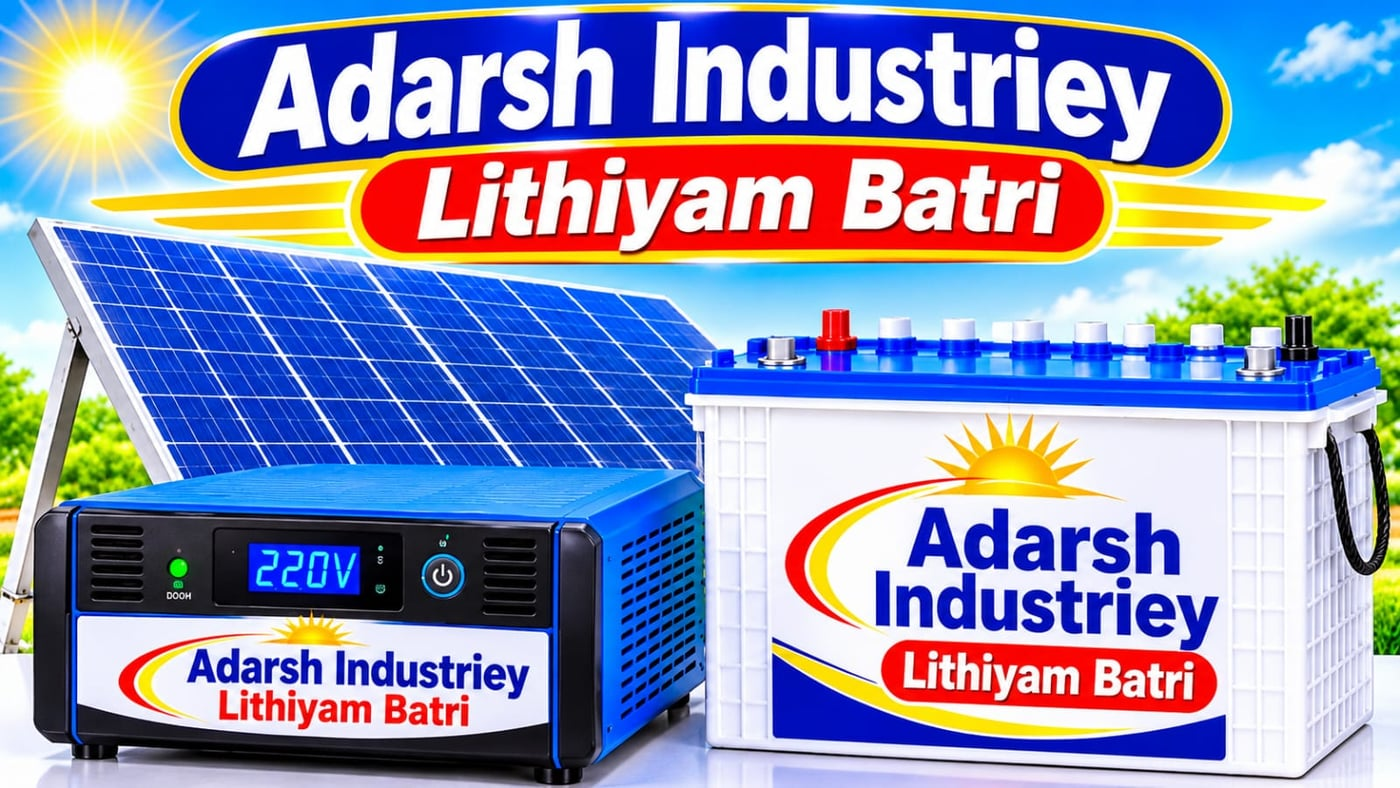
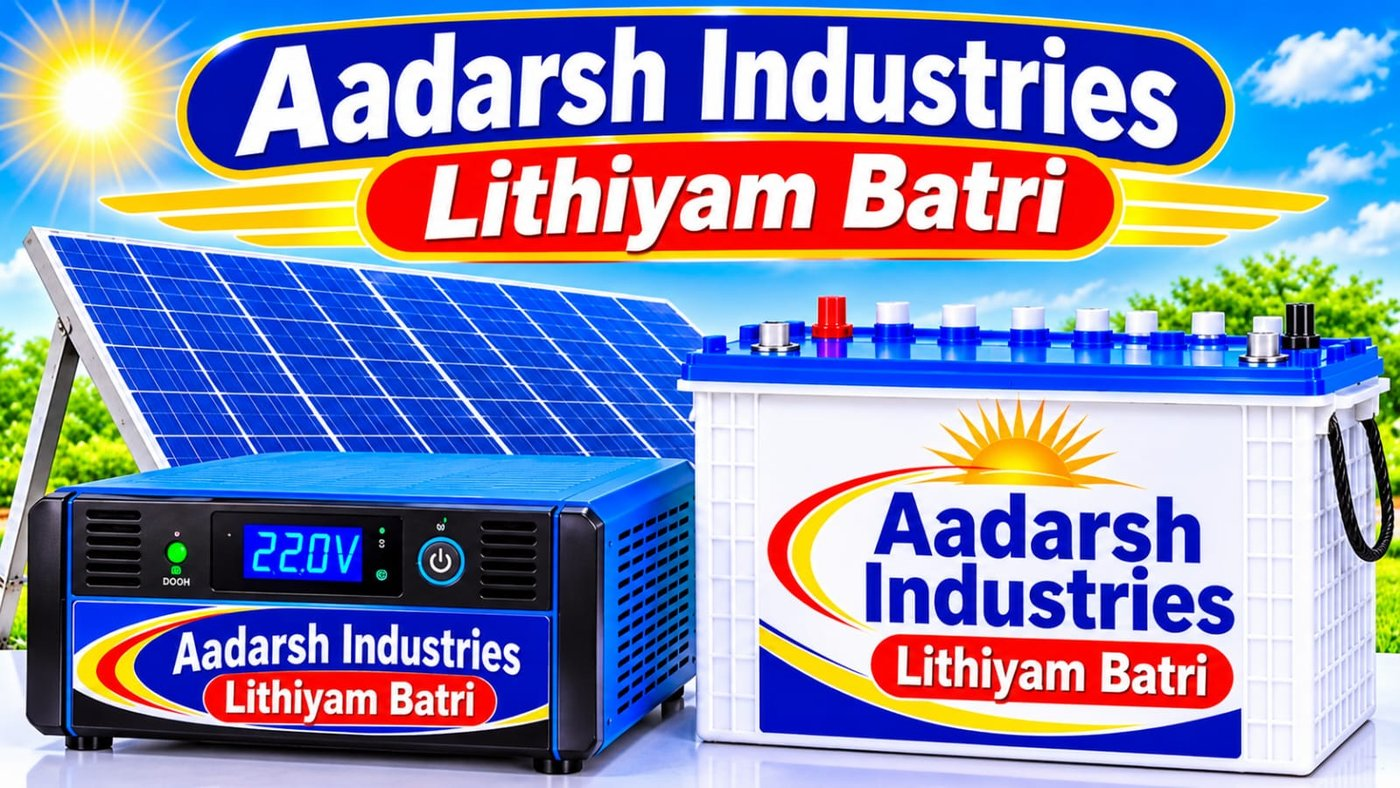
Replace misspelled product and enclosure images with updated Aadarsh Industries assets

diff --git a/Aadarsh_Industries_Website.html b/Aadarsh_Industries_Website.html
@@ -167,8 +167,8 @@
       </div>
       <div class="p-5"><p class="text-xs font-bold uppercase tracking-wider text-emerald-700">Chargers</p><h3 class="mt-2 text-lg font-bold text-slate-900">Smart Aluminum EV Fast Chargers</h3><p class="mt-1 font-semibold text-slate-700">60V / 72V High-Current Smart Charger</p><p class="mt-3 min-h-[60px] text-sm leading-6 text-slate-600">Heavy-duty aluminum heat-sink body chargers for fast heat dissipation, dual cooling protection, and extended battery health.</p><a href="https://wa.me/917523916333?text=Hi%20Aadarsh%20Industries%2C%20I%20need%20Smart%20Aluminum%20Body%20Fast%20Chargers.%20Please%20share%20voltage%20options%20and%20price." target="_blank" rel="noopener" class="mt-5 inline-flex w-full items-center justify-center gap-2 rounded-xl bg-emerald-600 px-4 py-3 font-semibold text-white hover:bg-emerald-700 transition"><svg class="w-5 h-5 fill-current shrink-0" viewBox="0 0 24 24"><path d="M12.04 2c-5.46 0-9.91 4.45-9.91 9.91 0 1.75.46 3.45 1.32 4.95L2.05 22l5.25-1.38c1.45.79 3.08 1.21 4.74 1.21 5.46 0 9.91-4.45 9.91-9.91 0-2.65-1.03-5.14-2.9-7.01A9.816 9.816 0 0 0 12.04 2m.01 1.67c2.2 0 4.26.86 5.82 2.42a8.225 8.225 0 0 1 2.41 5.83c0 4.54-3.7 8.24-8.24 8.24-1.48 0-2.93-.4-4.2-1.15l-.3-.18-3.12.82.83-3.04-.2-.31a8.186 8.186 0 0 1-1.26-4.38c0-4.54 3.7-8.24 8.24-8.24m4.52 11.53c-.25.7-.72 1.3-1.36 1.45-.48.11-.98.14-1.52-.07-.93-.36-1.84-.93-2.64-1.73-.8-.8-1.37-1.71-1.73-2.64-.21-.54-.18-1.04-.07-1.52.15-.64.75-1.11 1.45-1.36.19-.07.39-.02.51.13l.89 1.14c.11.14.12.33.02.48l-.48.71c-.08.12-.07.28.03.38.45.45.98.81 1.55 1.06.12.05.25.04.34-.03l.63-.58c.13-.12.33-.13.48-.04l1.31.75c.16.09.23.28.17.47"/></svg> Inquire on WhatsApp</a></div>
     </article>    <article class="product-card group bg-white rounded-2xl border border-slate-200 overflow-hidden hover:shadow-xl hover:-translate-y-1 transition-all duration-300" data-category="Enclosures">
-      <div class="relative h-64 overflow-hidden bg-slate-50 flex items-center justify-center p-3 border-b border-slate-100 cursor-pointer group/img" onclick="openLightbox('img/battery-enclosures.webp', 'Custom Metal Battery Enclosures Aadesh Industry')">
-        <img src="img/battery-enclosures.webp" alt="Custom Metal Battery Enclosures Aadesh Industry" class="max-h-full max-w-full object-contain group-hover:scale-105 transition-transform duration-300 drop-shadow-sm" loading="lazy">
+      <div class="relative h-64 overflow-hidden bg-slate-50 flex items-center justify-center p-3 border-b border-slate-100 cursor-pointer group/img" onclick="openLightbox('img/battery-enclosures.webp', 'Custom Metal Battery Enclosures Aadarsh Industries')">
+        <img src="img/battery-enclosures.webp" alt="Custom Metal Battery Enclosures Aadarsh Industries" class="max-h-full max-w-full object-contain group-hover:scale-105 transition-transform duration-300 drop-shadow-sm" loading="lazy">
         <span class="absolute top-3 right-3 rounded-full bg-white/95 backdrop-blur px-2.5 py-1 text-xs font-bold text-emerald-800 shadow-sm border border-slate-200">Custom Build</span>
         <span class="absolute bottom-2 right-2 rounded-md bg-slate-900/75 text-white px-2.5 py-1 text-xs opacity-0 group-hover:opacity-100 transition-opacity flex items-center gap-1 font-medium pointer-events-none shadow">🔍 Click to zoom</span>
       </div>
@@ -191,7 +191,7 @@
   </div><p id="no-results" class="hidden py-16 text-center text-slate-500">No matching products. Try another search or category.</p><div class="mt-10 rounded-2xl bg-emerald-950 p-6 text-white sm:flex sm:items-center sm:justify-between sm:p-8"><div><h3 class="text-xl font-bold">Need a custom battery pack?</h3><p class="mt-2 max-w-2xl text-sm text-emerald-100/80">Share your application, voltage, capacity and quantity. We’ll discuss the right configuration and current availability.</p></div><a href="https://wa.me/917523916333?text=Hi%20Aadarsh%20Industries%2C%20I%20need%20a%20custom%20battery%20pack.%20Application%3A%20___%20Voltage%3A%20___%20Capacity%3A%20___%20Quantity%3A%20___" class="mt-5 inline-flex shrink-0 rounded-xl bg-white px-5 py-3 font-bold text-emerald-950 hover:bg-emerald-50 sm:mt-0">Discuss on WhatsApp →</a></div></div></section>
 <section id="quality" class="py-16 sm:py-20"><div class="mx-auto grid max-w-7xl items-center gap-10 px-4 sm:px-6 md:grid-cols-2"><div class="overflow-hidden rounded-3xl bg-slate-100 shadow-lg"><img src="img/quality-testing-lab.webp" alt="Quality Testing & Cell Grading Facility" class="h-[320px] w-full object-cover sm:h-[430px]" loading="lazy"></div><div><p class="text-sm font-extrabold uppercase tracking-[.18em] text-emerald-700">Quality & testing</p><h2 class="mt-3 text-3xl font-extrabold tracking-tight sm:text-4xl">Tested cells. Better-built packs.</h2><p class="mt-5 leading-7 text-slate-600">Our workshop photos show multi-channel cell testing and grading equipment. We can discuss the test data and matching requirements for your project before you place an order.</p><div class="mt-7 space-y-4"><div class="flex gap-3"><span class="grid h-7 w-7 shrink-0 place-items-center rounded-full bg-emerald-100 text-sm font-bold text-emerald-700">✓</span><div><p class="font-bold">Capacity grading</p><p class="mt-1 text-sm text-slate-500">Cells can be checked and grouped for pack assembly.</p></div></div><div class="flex gap-3"><span class="grid h-7 w-7 shrink-0 place-items-center rounded-full bg-emerald-100 text-sm font-bold text-emerald-700">✓</span><div><p class="font-bold">Multiple chemistries</p><p class="mt-1 text-sm text-slate-500">LiFePO₄ and lithium-ion choices for different use cases.</p></div></div><div class="flex gap-3"><span class="grid h-7 w-7 shrink-0 place-items-center rounded-full bg-emerald-100 text-sm font-bold text-emerald-700">✓</span><div><p class="font-bold">BIS marking shown on selected cells</p><p class="mt-1 text-sm text-slate-500">Ask us for applicable certification and product documentation for the specific item.</p></div></div></div><a href="https://wa.me/917523916333?text=Hi%20Aadarsh%20Industries%2C%20please%20share%20cell%20testing%20and%20product%20documentation%20details." class="mt-8 inline-flex rounded-xl bg-slate-950 px-5 py-3 font-bold text-white hover:bg-slate-800">Ask about quality checks</a></div></div></section>
 <section class="bg-emerald-950 py-14 text-white"><div class="mx-auto max-w-7xl px-4 sm:px-6"><div class="grid gap-8 md:grid-cols-[1fr_1.1fr] md:items-center"><div><p class="text-sm font-bold uppercase tracking-[.18em] text-emerald-300">Applications</p><h2 class="mt-3 text-3xl font-extrabold">Energy for work that moves India</h2><p class="mt-4 max-w-xl leading-7 text-emerald-100/75">Talk to us about battery requirements for mobility, backup and industrial use.</p></div><div class="grid grid-cols-2 gap-3 sm:grid-cols-3"><div class="rounded-xl border border-white/10 bg-white/5 p-4"><span class="text-2xl">🛵</span><p class="mt-3 text-sm font-semibold">EV Scooty & E-Bike</p></div><div class="rounded-xl border border-white/10 bg-white/5 p-4"><span class="text-2xl">🛺</span><p class="mt-3 text-sm font-semibold">E-Rickshaw</p></div><div class="rounded-xl border border-white/10 bg-white/5 p-4"><span class="text-2xl">☀</span><p class="mt-3 text-sm font-semibold">Solar & Storage</p></div><div class="rounded-xl border border-white/10 bg-white/5 p-4"><span class="text-2xl">🏭</span><p class="mt-3 text-sm font-semibold">Industrial Machinery</p></div><div class="rounded-xl border border-white/10 bg-white/5 p-4"><span class="text-2xl">📦</span><p class="mt-3 text-sm font-semibold">Warehouse & Logistics</p></div><div class="rounded-xl border border-white/10 bg-white/5 p-4"><span class="text-2xl">🏥</span><p class="mt-3 text-sm font-semibold">Medical Equipment</p></div></div></div></div></section>
-<section id="about" class="py-16 sm:py-20"><div class="mx-auto grid max-w-7xl gap-10 px-4 sm:px-6 md:grid-cols-2"><div><p class="text-sm font-extrabold uppercase tracking-[.18em] text-emerald-700">About Aadarsh</p><h2 class="mt-3 text-3xl font-extrabold tracking-tight sm:text-4xl">Your North India battery partner</h2><p class="mt-5 leading-7 text-slate-600">Aadarsh Industries supplies lithium battery products and components to customers across Delhi, Uttar Pradesh and Bihar. From individual cells to custom battery packs, chargers and enclosures, our team can help you find an option for your application.</p><p class="mt-4 leading-7 text-slate-600">Send us your requirements on WhatsApp for product availability, pricing and delivery details.</p><div class="mt-7 rounded-2xl border border-slate-200 bg-slate-50 p-5"><p class="text-xs font-bold uppercase tracking-wider text-slate-500">GST registered trade name</p><p class="mt-2 text-lg font-extrabold">Aadarsh Industries</p><p class="mt-1 text-sm text-slate-600">GSTIN: 09DHKPK9294J2ZE</p></div></div><div class="grid gap-4 sm:grid-cols-2"><div class="overflow-hidden rounded-2xl"><img src="img/lifepo4-battery-cells.webp" alt="Aadarsh Industries Battery Cells Stock" class="h-full min-h-56 w-full object-cover" loading="lazy"></div><div class="overflow-hidden rounded-2xl"><img src="img/smart-charger-67v-10a.webp" alt="Aadarsh Industries Smart Chargers" class="h-full min-h-56 w-full object-cover" loading="lazy"></div><div class="overflow-hidden rounded-2xl sm:col-span-2"><img src="img/battery-enclosures.webp" alt="Aadarsh Industries Metal Battery Enclosures Manufacturing" class="h-56 w-full object-cover" loading="lazy"></div></div></div></section>
+<section id="about" class="py-16 sm:py-20"><div class="mx-auto grid max-w-7xl gap-10 px-4 sm:px-6 md:grid-cols-2"><div><p class="text-sm font-extrabold uppercase tracking-[.18em] text-emerald-700">About Aadarsh</p><h2 class="mt-3 text-3xl font-extrabold tracking-tight sm:text-4xl">Your North India battery partner</h2><p class="mt-5 leading-7 text-slate-600">Aadarsh Industries supplies lithium battery products and components to customers across Delhi, Uttar Pradesh and Bihar. From individual cells to custom battery packs, chargers and enclosures, our team can help you find an option for your application.</p><p class="mt-4 leading-7 text-slate-600">Send us your requirements on WhatsApp for product availability, pricing and delivery details.</p><div class="mt-7 rounded-2xl border border-slate-200 bg-slate-50 p-5"><p class="text-xs font-bold uppercase tracking-wider text-slate-500">GST registered trade name</p><p class="mt-2 text-lg font-extrabold">Aadarsh Industries</p><p class="mt-1 text-sm text-slate-600">GSTIN: 09DHKPK9294J2ZE</p></div></div><div class="grid gap-4 sm:grid-cols-2"><div class="overflow-hidden rounded-2xl"><img src="img/lifepo4-battery-cells.webp" alt="Aadarsh Industries Battery Cells Stock" class="h-full min-h-56 w-full object-cover" loading="lazy"></div><div class="overflow-hidden rounded-2xl"><img src="img/smart-aluminum-charger.webp" alt="Aadarsh Industries Smart Chargers" class="h-full min-h-56 w-full object-cover" loading="lazy"></div><div class="overflow-hidden rounded-2xl sm:col-span-2"><img src="img/battery-enclosures.webp" alt="Aadarsh Industries Metal Battery Enclosures Manufacturing" class="h-56 w-full object-cover" loading="lazy"></div></div></div></section>
 <section id="contact" class="bg-slate-50 py-16 sm:py-20"><div class="mx-auto max-w-7xl px-4 sm:px-6"><div class="text-center"><p class="text-sm font-extrabold uppercase tracking-[.18em] text-emerald-700">Contact & enquiries</p><h2 class="mt-3 text-3xl font-extrabold tracking-tight sm:text-4xl">Let’s talk batteries</h2><p class="mx-auto mt-3 max-w-2xl text-slate-600">Tell us what you’re building. For faster help, include your application, voltage and required quantity.</p></div><div class="mt-10 grid gap-5 md:grid-cols-3"><div class="rounded-2xl border border-slate-200 bg-white p-6"><span class="text-2xl">📍</span><h3 class="mt-4 font-bold">Main hub</h3><p class="mt-2 text-sm leading-6 text-slate-600">Kasimabad Road, Todarpur, Mohammadabad, Ghazipur, Uttar Pradesh 233229</p></div><div class="rounded-2xl border border-slate-200 bg-white p-6"><span class="text-2xl">📦</span><h3 class="mt-4 font-bold">Regional supply</h3><p class="mt-2 text-sm leading-6 text-slate-600">Hubs at Rasra (Ballia) and Barachwar (Ghazipur). Supply across Delhi, Uttar Pradesh, Bihar and North India.</p></div><div class="rounded-2xl border border-slate-200 bg-white p-6"><span class="text-2xl">☎</span><h3 class="mt-4 font-bold">Call or WhatsApp</h3><div class="mt-2 space-y-2 text-sm"><a href="tel:+917523916333" class="block font-semibold text-emerald-700">+91 75239 16333</a><a href="tel:+917523915333" class="block font-semibold text-emerald-700">+91 75239 15333</a></div></div></div><div class="mt-8 rounded-3xl bg-white p-6 shadow-sm ring-1 ring-slate-200 sm:p-8"><div class="grid gap-6 md:grid-cols-[1fr_auto] md:items-center"><div><h3 class="text-xl font-extrabold">Get a quick product quote</h3><p class="mt-2 text-sm leading-6 text-slate-600">Fill in a few details and WhatsApp will open with your enquiry ready to send.</p></div><form id="inquiry-form" class="grid gap-3 sm:grid-cols-2 md:min-w-[520px]"><input required id="inq-name" placeholder="Your name" class="rounded-xl border border-slate-200 px-4 py-3 text-sm outline-none focus:border-emerald-500"><input required id="inq-product" placeholder="Product / battery type" class="rounded-xl border border-slate-200 px-4 py-3 text-sm outline-none focus:border-emerald-500"><input id="inq-requirement" placeholder="Voltage, capacity or quantity (optional)" class="rounded-xl border border-slate-200 px-4 py-3 text-sm outline-none focus:border-emerald-500 sm:col-span-2"><button class="rounded-xl bg-emerald-600 px-5 py-3 font-bold text-white hover:bg-emerald-700 sm:col-span-2">Continue on WhatsApp ↗</button></form></div></div></div></section>
 </main><footer class="bg-slate-950 text-slate-300"><div class="mx-auto flex max-w-7xl flex-col gap-5 px-4 py-8 sm:px-6 md:flex-row md:items-center md:justify-between"><div><p class="font-extrabold text-white">Aadarsh Industries</p><p class="mt-1 text-xs text-slate-400">Powering a Smarter Tomorrow · Green Energy Clean India</p></div><p class="text-xs">Aadarsh Industries · GSTIN 09DHKPK9294J2ZE</p><p class="text-xs">© <span id="year"></span> Aadarsh Industries</p></div></footer>
 <a aria-label="Chat with Aadarsh Industries on WhatsApp" href="https://wa.me/917523916333?text=Hi%20Aadarsh%20Industries%2C%20I%20have%20a%20product%20enquiry." target="_blank" rel="noopener" class="fixed bottom-5 right-5 z-50 grid h-14 w-14 place-items-center rounded-full bg-emerald-500 text-2xl text-white shadow-xl ring-4 ring-white hover:scale-105" title="WhatsApp"><svg class="w-8 h-8 fill-current" viewBox="0 0 24 24"><path d="M12.04 2c-5.46 0-9.91 4.45-9.91 9.91 0 1.75.46 3.45 1.32 4.95L2.05 22l5.25-1.38c1.45.79 3.08 1.21 4.74 1.21 5.46 0 9.91-4.45 9.91-9.91 0-2.65-1.03-5.14-2.9-7.01A9.816 9.816 0 0 0 12.04 2m.01 1.67c2.2 0 4.26.86 5.82 2.42a8.225 8.225 0 0 1 2.41 5.83c0 4.54-3.7 8.24-8.24 8.24-1.48 0-2.93-.4-4.2-1.15l-.3-.18-3.12.82.83-3.04-.2-.31a8.186 8.186 0 0 1-1.26-4.38c0-4.54 3.7-8.24 8.24-8.24m4.52 11.53c-.25.7-.72 1.3-1.36 1.45-.48.11-.98.14-1.52-.07-.93-.36-1.84-.93-2.64-1.73-.8-.8-1.37-1.71-1.73-2.64-.21-.54-.18-1.04-.07-1.52.15-.64.75-1.11 1.45-1.36.19-.07.39-.02.51.13l.89 1.14c.11.14.12.33.02.48l-.48.71c-.08.12-.07.28.03.38.45.45.98.81 1.55 1.06.12.05.25.04.34-.03l.63-.58c.13-.12.33-.13.48-.04l1.31.75c.16.09.23.28.17.47"/></svg></a>

diff --git a/index.html b/index.html
@@ -167,8 +167,8 @@
       </div>
       <div class="p-5"><p class="text-xs font-bold uppercase tracking-wider text-emerald-700">Chargers</p><h3 class="mt-2 text-lg font-bold text-slate-900">Smart Aluminum EV Fast Chargers</h3><p class="mt-1 font-semibold text-slate-700">60V / 72V High-Current Smart Charger</p><p class="mt-3 min-h-[60px] text-sm leading-6 text-slate-600">Heavy-duty aluminum heat-sink body chargers for fast heat dissipation, dual cooling protection, and extended battery health.</p><a href="https://wa.me/917523916333?text=Hi%20Aadarsh%20Industries%2C%20I%20need%20Smart%20Aluminum%20Body%20Fast%20Chargers.%20Please%20share%20voltage%20options%20and%20price." target="_blank" rel="noopener" class="mt-5 inline-flex w-full items-center justify-center gap-2 rounded-xl bg-emerald-600 px-4 py-3 font-semibold text-white hover:bg-emerald-700 transition"><svg class="w-5 h-5 fill-current shrink-0" viewBox="0 0 24 24"><path d="M12.04 2c-5.46 0-9.91 4.45-9.91 9.91 0 1.75.46 3.45 1.32 4.95L2.05 22l5.25-1.38c1.45.79 3.08 1.21 4.74 1.21 5.46 0 9.91-4.45 9.91-9.91 0-2.65-1.03-5.14-2.9-7.01A9.816 9.816 0 0 0 12.04 2m.01 1.67c2.2 0 4.26.86 5.82 2.42a8.225 8.225 0 0 1 2.41 5.83c0 4.54-3.7 8.24-8.24 8.24-1.48 0-2.93-.4-4.2-1.15l-.3-.18-3.12.82.83-3.04-.2-.31a8.186 8.186 0 0 1-1.26-4.38c0-4.54 3.7-8.24 8.24-8.24m4.52 11.53c-.25.7-.72 1.3-1.36 1.45-.48.11-.98.14-1.52-.07-.93-.36-1.84-.93-2.64-1.73-.8-.8-1.37-1.71-1.73-2.64-.21-.54-.18-1.04-.07-1.52.15-.64.75-1.11 1.45-1.36.19-.07.39-.02.51.13l.89 1.14c.11.14.12.33.02.48l-.48.71c-.08.12-.07.28.03.38.45.45.98.81 1.55 1.06.12.05.25.04.34-.03l.63-.58c.13-.12.33-.13.48-.04l1.31.75c.16.09.23.28.17.47"/></svg> Inquire on WhatsApp</a></div>
     </article>    <article class="product-card group bg-white rounded-2xl border border-slate-200 overflow-hidden hover:shadow-xl hover:-translate-y-1 transition-all duration-300" data-category="Enclosures">
-      <div class="relative h-64 overflow-hidden bg-slate-50 flex items-center justify-center p-3 border-b border-slate-100 cursor-pointer group/img" onclick="openLightbox('img/battery-enclosures.webp', 'Custom Metal Battery Enclosures Aadesh Industry')">
-        <img src="img/battery-enclosures.webp" alt="Custom Metal Battery Enclosures Aadesh Industry" class="max-h-full max-w-full object-contain group-hover:scale-105 transition-transform duration-300 drop-shadow-sm" loading="lazy">
+      <div class="relative h-64 overflow-hidden bg-slate-50 flex items-center justify-center p-3 border-b border-slate-100 cursor-pointer group/img" onclick="openLightbox('img/battery-enclosures.webp', 'Custom Metal Battery Enclosures Aadarsh Industries')">
+        <img src="img/battery-enclosures.webp" alt="Custom Metal Battery Enclosures Aadarsh Industries" class="max-h-full max-w-full object-contain group-hover:scale-105 transition-transform duration-300 drop-shadow-sm" loading="lazy">
         <span class="absolute top-3 right-3 rounded-full bg-white/95 backdrop-blur px-2.5 py-1 text-xs font-bold text-emerald-800 shadow-sm border border-slate-200">Custom Build</span>
         <span class="absolute bottom-2 right-2 rounded-md bg-slate-900/75 text-white px-2.5 py-1 text-xs opacity-0 group-hover:opacity-100 transition-opacity flex items-center gap-1 font-medium pointer-events-none shadow">🔍 Click to zoom</span>
       </div>
@@ -191,7 +191,7 @@
   </div><p id="no-results" class="hidden py-16 text-center text-slate-500">No matching products. Try another search or category.</p><div class="mt-10 rounded-2xl bg-emerald-950 p-6 text-white sm:flex sm:items-center sm:justify-between sm:p-8"><div><h3 class="text-xl font-bold">Need a custom battery pack?</h3><p class="mt-2 max-w-2xl text-sm text-emerald-100/80">Share your application, voltage, capacity and quantity. We’ll discuss the right configuration and current availability.</p></div><a href="https://wa.me/917523916333?text=Hi%20Aadarsh%20Industries%2C%20I%20need%20a%20custom%20battery%20pack.%20Application%3A%20___%20Voltage%3A%20___%20Capacity%3A%20___%20Quantity%3A%20___" class="mt-5 inline-flex shrink-0 rounded-xl bg-white px-5 py-3 font-bold text-emerald-950 hover:bg-emerald-50 sm:mt-0">Discuss on WhatsApp →</a></div></div></section>
 <section id="quality" class="py-16 sm:py-20"><div class="mx-auto grid max-w-7xl items-center gap-10 px-4 sm:px-6 md:grid-cols-2"><div class="overflow-hidden rounded-3xl bg-slate-100 shadow-lg"><img src="img/quality-testing-lab.webp" alt="Quality Testing & Cell Grading Facility" class="h-[320px] w-full object-cover sm:h-[430px]" loading="lazy"></div><div><p class="text-sm font-extrabold uppercase tracking-[.18em] text-emerald-700">Quality & testing</p><h2 class="mt-3 text-3xl font-extrabold tracking-tight sm:text-4xl">Tested cells. Better-built packs.</h2><p class="mt-5 leading-7 text-slate-600">Our workshop photos show multi-channel cell testing and grading equipment. We can discuss the test data and matching requirements for your project before you place an order.</p><div class="mt-7 space-y-4"><div class="flex gap-3"><span class="grid h-7 w-7 shrink-0 place-items-center rounded-full bg-emerald-100 text-sm font-bold text-emerald-700">✓</span><div><p class="font-bold">Capacity grading</p><p class="mt-1 text-sm text-slate-500">Cells can be checked and grouped for pack assembly.</p></div></div><div class="flex gap-3"><span class="grid h-7 w-7 shrink-0 place-items-center rounded-full bg-emerald-100 text-sm font-bold text-emerald-700">✓</span><div><p class="font-bold">Multiple chemistries</p><p class="mt-1 text-sm text-slate-500">LiFePO₄ and lithium-ion choices for different use cases.</p></div></div><div class="flex gap-3"><span class="grid h-7 w-7 shrink-0 place-items-center rounded-full bg-emerald-100 text-sm font-bold text-emerald-700">✓</span><div><p class="font-bold">BIS marking shown on selected cells</p><p class="mt-1 text-sm text-slate-500">Ask us for applicable certification and product documentation for the specific item.</p></div></div></div><a href="https://wa.me/917523916333?text=Hi%20Aadarsh%20Industries%2C%20please%20share%20cell%20testing%20and%20product%20documentation%20details." class="mt-8 inline-flex rounded-xl bg-slate-950 px-5 py-3 font-bold text-white hover:bg-slate-800">Ask about quality checks</a></div></div></section>
 <section class="bg-emerald-950 py-14 text-white"><div class="mx-auto max-w-7xl px-4 sm:px-6"><div class="grid gap-8 md:grid-cols-[1fr_1.1fr] md:items-center"><div><p class="text-sm font-bold uppercase tracking-[.18em] text-emerald-300">Applications</p><h2 class="mt-3 text-3xl font-extrabold">Energy for work that moves India</h2><p class="mt-4 max-w-xl leading-7 text-emerald-100/75">Talk to us about battery requirements for mobility, backup and industrial use.</p></div><div class="grid grid-cols-2 gap-3 sm:grid-cols-3"><div class="rounded-xl border border-white/10 bg-white/5 p-4"><span class="text-2xl">🛵</span><p class="mt-3 text-sm font-semibold">EV Scooty & E-Bike</p></div><div class="rounded-xl border border-white/10 bg-white/5 p-4"><span class="text-2xl">🛺</span><p class="mt-3 text-sm font-semibold">E-Rickshaw</p></div><div class="rounded-xl border border-white/10 bg-white/5 p-4"><span class="text-2xl">☀</span><p class="mt-3 text-sm font-semibold">Solar & Storage</p></div><div class="rounded-xl border border-white/10 bg-white/5 p-4"><span class="text-2xl">🏭</span><p class="mt-3 text-sm font-semibold">Industrial Machinery</p></div><div class="rounded-xl border border-white/10 bg-white/5 p-4"><span class="text-2xl">📦</span><p class="mt-3 text-sm font-semibold">Warehouse & Logistics</p></div><div class="rounded-xl border border-white/10 bg-white/5 p-4"><span class="text-2xl">🏥</span><p class="mt-3 text-sm font-semibold">Medical Equipment</p></div></div></div></div></section>
-<section id="about" class="py-16 sm:py-20"><div class="mx-auto grid max-w-7xl gap-10 px-4 sm:px-6 md:grid-cols-2"><div><p class="text-sm font-extrabold uppercase tracking-[.18em] text-emerald-700">About Aadarsh</p><h2 class="mt-3 text-3xl font-extrabold tracking-tight sm:text-4xl">Your North India battery partner</h2><p class="mt-5 leading-7 text-slate-600">Aadarsh Industries supplies lithium battery products and components to customers across Delhi, Uttar Pradesh and Bihar. From individual cells to custom battery packs, chargers and enclosures, our team can help you find an option for your application.</p><p class="mt-4 leading-7 text-slate-600">Send us your requirements on WhatsApp for product availability, pricing and delivery details.</p><div class="mt-7 rounded-2xl border border-slate-200 bg-slate-50 p-5"><p class="text-xs font-bold uppercase tracking-wider text-slate-500">GST registered trade name</p><p class="mt-2 text-lg font-extrabold">Aadarsh Industries</p><p class="mt-1 text-sm text-slate-600">GSTIN: 09DHKPK9294J2ZE</p></div></div><div class="grid gap-4 sm:grid-cols-2"><div class="overflow-hidden rounded-2xl"><img src="img/lifepo4-battery-cells.webp" alt="Aadarsh Industries Battery Cells Stock" class="h-full min-h-56 w-full object-cover" loading="lazy"></div><div class="overflow-hidden rounded-2xl"><img src="img/smart-charger-67v-10a.webp" alt="Aadarsh Industries Smart Chargers" class="h-full min-h-56 w-full object-cover" loading="lazy"></div><div class="overflow-hidden rounded-2xl sm:col-span-2"><img src="img/battery-enclosures.webp" alt="Aadarsh Industries Metal Battery Enclosures Manufacturing" class="h-56 w-full object-cover" loading="lazy"></div></div></div></section>
+<section id="about" class="py-16 sm:py-20"><div class="mx-auto grid max-w-7xl gap-10 px-4 sm:px-6 md:grid-cols-2"><div><p class="text-sm font-extrabold uppercase tracking-[.18em] text-emerald-700">About Aadarsh</p><h2 class="mt-3 text-3xl font-extrabold tracking-tight sm:text-4xl">Your North India battery partner</h2><p class="mt-5 leading-7 text-slate-600">Aadarsh Industries supplies lithium battery products and components to customers across Delhi, Uttar Pradesh and Bihar. From individual cells to custom battery packs, chargers and enclosures, our team can help you find an option for your application.</p><p class="mt-4 leading-7 text-slate-600">Send us your requirements on WhatsApp for product availability, pricing and delivery details.</p><div class="mt-7 rounded-2xl border border-slate-200 bg-slate-50 p-5"><p class="text-xs font-bold uppercase tracking-wider text-slate-500">GST registered trade name</p><p class="mt-2 text-lg font-extrabold">Aadarsh Industries</p><p class="mt-1 text-sm text-slate-600">GSTIN: 09DHKPK9294J2ZE</p></div></div><div class="grid gap-4 sm:grid-cols-2"><div class="overflow-hidden rounded-2xl"><img src="img/lifepo4-battery-cells.webp" alt="Aadarsh Industries Battery Cells Stock" class="h-full min-h-56 w-full object-cover" loading="lazy"></div><div class="overflow-hidden rounded-2xl"><img src="img/smart-aluminum-charger.webp" alt="Aadarsh Industries Smart Chargers" class="h-full min-h-56 w-full object-cover" loading="lazy"></div><div class="overflow-hidden rounded-2xl sm:col-span-2"><img src="img/battery-enclosures.webp" alt="Aadarsh Industries Metal Battery Enclosures Manufacturing" class="h-56 w-full object-cover" loading="lazy"></div></div></div></section>
 <section id="contact" class="bg-slate-50 py-16 sm:py-20"><div class="mx-auto max-w-7xl px-4 sm:px-6"><div class="text-center"><p class="text-sm font-extrabold uppercase tracking-[.18em] text-emerald-700">Contact & enquiries</p><h2 class="mt-3 text-3xl font-extrabold tracking-tight sm:text-4xl">Let’s talk batteries</h2><p class="mx-auto mt-3 max-w-2xl text-slate-600">Tell us what you’re building. For faster help, include your application, voltage and required quantity.</p></div><div class="mt-10 grid gap-5 md:grid-cols-3"><div class="rounded-2xl border border-slate-200 bg-white p-6"><span class="text-2xl">📍</span><h3 class="mt-4 font-bold">Main hub</h3><p class="mt-2 text-sm leading-6 text-slate-600">Kasimabad Road, Todarpur, Mohammadabad, Ghazipur, Uttar Pradesh 233229</p></div><div class="rounded-2xl border border-slate-200 bg-white p-6"><span class="text-2xl">📦</span><h3 class="mt-4 font-bold">Regional supply</h3><p class="mt-2 text-sm leading-6 text-slate-600">Hubs at Rasra (Ballia) and Barachwar (Ghazipur). Supply across Delhi, Uttar Pradesh, Bihar and North India.</p></div><div class="rounded-2xl border border-slate-200 bg-white p-6"><span class="text-2xl">☎</span><h3 class="mt-4 font-bold">Call or WhatsApp</h3><div class="mt-2 space-y-2 text-sm"><a href="tel:+917523916333" class="block font-semibold text-emerald-700">+91 75239 16333</a><a href="tel:+917523915333" class="block font-semibold text-emerald-700">+91 75239 15333</a></div></div></div><div class="mt-8 rounded-3xl bg-white p-6 shadow-sm ring-1 ring-slate-200 sm:p-8"><div class="grid gap-6 md:grid-cols-[1fr_auto] md:items-center"><div><h3 class="text-xl font-extrabold">Get a quick product quote</h3><p class="mt-2 text-sm leading-6 text-slate-600">Fill in a few details and WhatsApp will open with your enquiry ready to send.</p></div><form id="inquiry-form" class="grid gap-3 sm:grid-cols-2 md:min-w-[520px]"><input required id="inq-name" placeholder="Your name" class="rounded-xl border border-slate-200 px-4 py-3 text-sm outline-none focus:border-emerald-500"><input required id="inq-product" placeholder="Product / battery type" class="rounded-xl border border-slate-200 px-4 py-3 text-sm outline-none focus:border-emerald-500"><input id="inq-requirement" placeholder="Voltage, capacity or quantity (optional)" class="rounded-xl border border-slate-200 px-4 py-3 text-sm outline-none focus:border-emerald-500 sm:col-span-2"><button class="rounded-xl bg-emerald-600 px-5 py-3 font-bold text-white hover:bg-emerald-700 sm:col-span-2">Continue on WhatsApp ↗</button></form></div></div></div></section>
 </main><footer class="bg-slate-950 text-slate-300"><div class="mx-auto flex max-w-7xl flex-col gap-5 px-4 py-8 sm:px-6 md:flex-row md:items-center md:justify-between"><div><p class="font-extrabold text-white">Aadarsh Industries</p><p class="mt-1 text-xs text-slate-400">Powering a Smarter Tomorrow · Green Energy Clean India</p></div><p class="text-xs">Aadarsh Industries · GSTIN 09DHKPK9294J2ZE</p><p class="text-xs">© <span id="year"></span> Aadarsh Industries</p></div></footer>
 <a aria-label="Chat with Aadarsh Industries on WhatsApp" href="https://wa.me/917523916333?text=Hi%20Aadarsh%20Industries%2C%20I%20have%20a%20product%20enquiry." target="_blank" rel="noopener" class="fixed bottom-5 right-5 z-50 grid h-14 w-14 place-items-center rounded-full bg-emerald-500 text-2xl text-white shadow-xl ring-4 ring-white hover:scale-105" title="WhatsApp"><svg class="w-8 h-8 fill-current" viewBox="0 0 24 24"><path d="M12.04 2c-5.46 0-9.91 4.45-9.91 9.91 0 1.75.46 3.45 1.32 4.95L2.05 22l5.25-1.38c1.45.79 3.08 1.21 4.74 1.21 5.46 0 9.91-4.45 9.91-9.91 0-2.65-1.03-5.14-2.9-7.01A9.816 9.816 0 0 0 12.04 2m.01 1.67c2.2 0 4.26.86 5.82 2.42a8.225 8.225 0 0 1 2.41 5.83c0 4.54-3.7 8.24-8.24 8.24-1.48 0-2.93-.4-4.2-1.15l-.3-.18-3.12.82.83-3.04-.2-.31a8.186 8.186 0 0 1-1.26-4.38c0-4.54 3.7-8.24 8.24-8.24m4.52 11.53c-.25.7-.72 1.3-1.36 1.45-.48.11-.98.14-1.52-.07-.93-.36-1.84-.93-2.64-1.73-.8-.8-1.37-1.71-1.73-2.64-.21-.54-.18-1.04-.07-1.52.15-.64.75-1.11 1.45-1.36.19-.07.39-.02.51.13l.89 1.14c.11.14.12.33.02.48l-.48.71c-.08.12-.07.28.03.38.45.45.98.81 1.55 1.06.12.05.25.04.34-.03l.63-.58c.13-.12.33-.13.48-.04l1.31.75c.16.09.23.28.17.47"/></svg></a>
